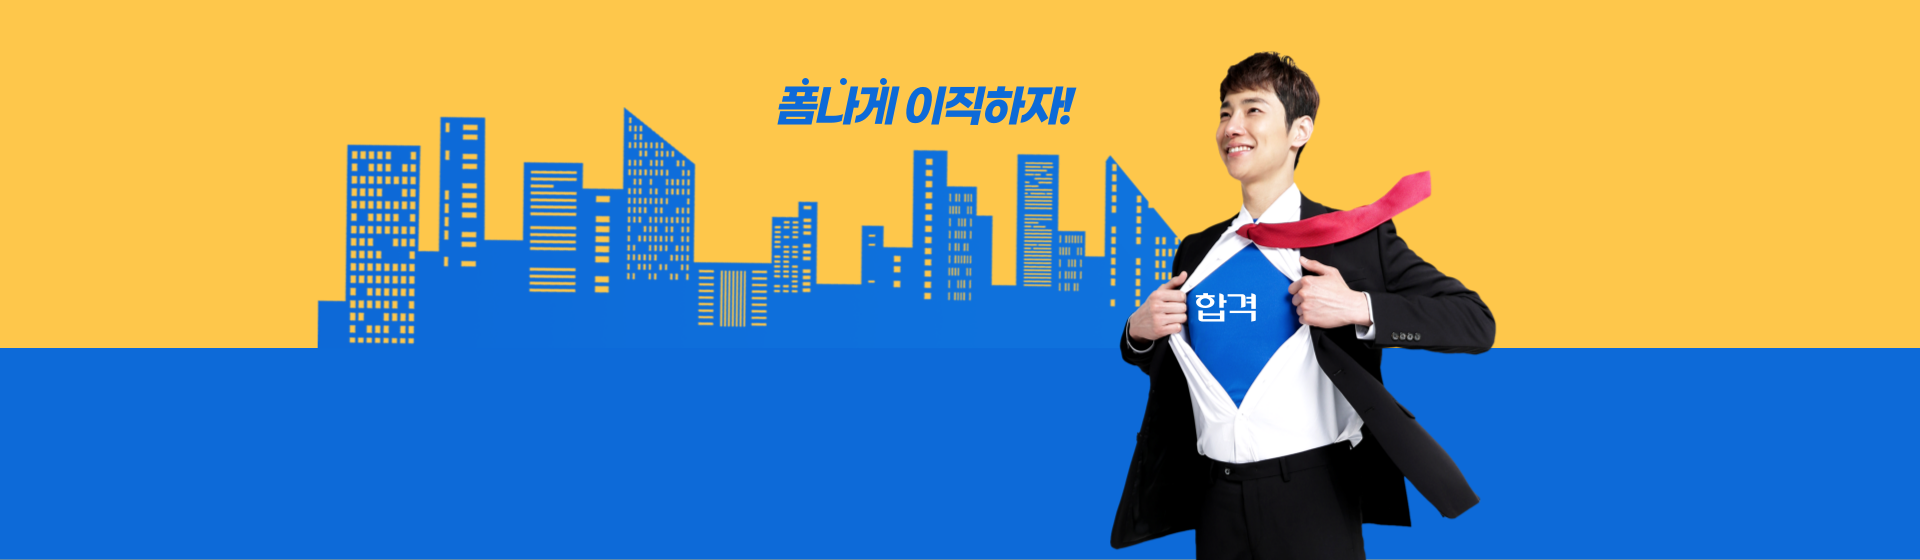
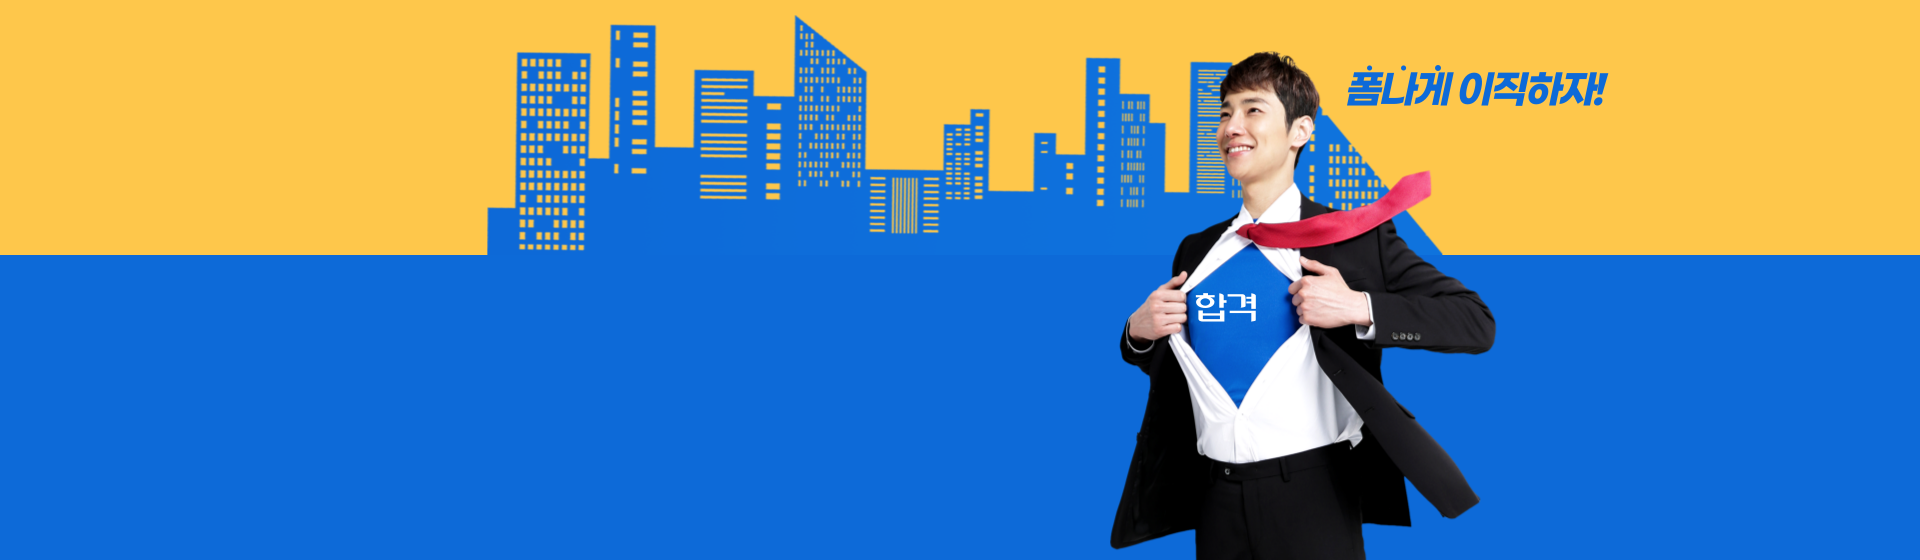
0204

Changed region(s): [[0.0, 0.0304, 1.0, 0.6375]]

diff --git a/app/components/frontend/MainSlide.tsx b/app/components/frontend/MainSlide.tsx
@@ -17,6 +17,7 @@ import MainSlide1 from "@/public/introduce/001.png";
 import MainSlide2 from "@/public/introduce/002.png";
 import MainSlide3 from "@/public/introduce/003.png";
 import MainSlide4 from "@/public/introduce/004.png";
+import MainSlide5 from "@/public/introduce/005.png";
 import { Button } from "@/components/ui/button";
 import Link from "next/link";
 
@@ -49,18 +50,18 @@ const testimonials = [
   {
     image: MainImg1,
     back: MainSlide4,
-    description: "전화상담, 카카오상담, 메일상담 OKOKOK",
-    name: "상담신청하기",
+    // description: "전화상담, 카카오상담, 메일상담 OKOKOK",
+    // name: "상담신청하기",
     title: "상담신청하기",
     link: "https://www.kakao.com",
   },
   {
     image: MainImg1,
-    back: "https://plus.unsplash.com/premium_photo-1664382465641-997aa3b73907?q=80&w=2071&auto=format&fit=crop&ixlib=rb-4.0.3&ixid=M3wxMjA3fDB8MHxwaG90by1wYWdlfHx8fGVufDB8fHx8fA%3D%3D",
-    description:
-      "Lorem ipsum dolor, sit amet consectetur adipisicing elit. Expedita sequi cupiditate harum repellendusda.",
-    name: "Daniel Henderson",
-    title: "Marvel's Blade' in Development",
+    back: MainSlide5,
+    // description:
+    //   "Lorem ipsum dolor, sit amet consectetur adipisicing elit. Expedita sequi cupiditate harum repellendusda.",
+    // name: "생생합격후기",
+    title: "생생합격후기",
     link: "https://www.marvel.com",
   },
 ];
